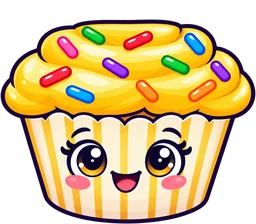
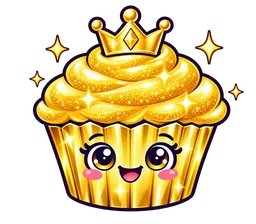
Revise Molly cupcake thumbnail, golden reward and Unicorn lane backdrop

diff --git a/party/image-requests.md b/party/image-requests.md
@@ -1107,9 +1107,6 @@ make it read better. Newest first; fixed items move to
 | `prop/dp-mushroom` (Molly duckling-parade, NEW key, 2026-10-13) | Missing: the mushroom hiding spots are still drawn by code (big, flat, off-style next to the delivered art) | ~260×280 transparent, bottom-centre anchor, drawn ~140 px wide; a friendly red-and-white toadstool a duckling can peek out from beside |
 | `prop/duckling-golden` (Molly duckling-parade, NEW key, optional) | The golden duckling is the plain duckling art with a glow, so it isn't golden | Same framing/anchor as `prop/duckling`: a shiny gold duckling with sparkles |
 | `prop/mp-ledge` (Molly mermaid-pearls, NEW key, optional) | The rock ledges under the clams are flat code-drawn bowls, off-style next to the art | ~300×110 transparent, bottom-centre anchor (drawn 270×99): a rounded coral/rock shelf whose flat top sits ~25 px below the image's top edge, for a clam to sit on |
-| `thumb/cupcake-stack` (Molly, 2026-10-13) | Plain white background with no scene; the only blank-white tile on the Molly shelf and how-to screen | Same subject, opaque 800×500 with a garden-party background (lawn, bunting, sky) like the other Molly thumbnails |
-| `prop/cupcake-gold` (Molly, 2026-10-13) | Looks almost the same as `prop/cupcake-lemon`, so the golden super-cupcake doesn't stand out (the code only adds a glow) | 256×224, same anchor: shiny gold-foil wrapper, glittery gold frosting, sparkles, a little star or crown on top |
-| `bg/unicorn-jump` (Molly, 2026-10-13) | Too busy behind the lanes: big gumdrops, lollipops and flowers fill the middle and bottom, so riders are hard to read (the code adds a milky wash for now) | Same seamless 1920×1080 tile; candy detail mostly in the top ~250 px, the lane area (y 260–1000) a soft, low-contrast meadow |
 
 Engine-side notes from the same review: several keys are aliases of one
 file (`prop/sky-cake` = `prop/giant-cake`, `prop/pump` = `prop/balloon-pump`,

diff --git a/party/image-requests-history.md b/party/image-requests-history.md
@@ -1,3 +1,11 @@
+## Resolved Molly cupcake and unicorn review — 2026-10-13
+
+Garden-party thumbnail, gold-foil crown cupcake and quiet mint meadow regenerated; checked in how-to and live gameplay. Provenance: `reference/pending/MOLLY-review-corrections.json`.
+
+| `thumb/cupcake-stack` (Molly, 2026-10-13) | Plain white background with no scene; the only blank-white tile on the Molly shelf and how-to screen | Same subject, opaque 800×500 with a garden-party background (lawn, bunting, sky) like the other Molly thumbnails |
+| `prop/cupcake-gold` (Molly, 2026-10-13) | Looks almost the same as `prop/cupcake-lemon`, so the golden super-cupcake doesn't stand out (the code only adds a glow) | 256×224, same anchor: shiny gold-foil wrapper, glittery gold frosting, sparkles, a little star or crown on top |
+| `bg/unicorn-jump` (Molly, 2026-10-13) | Too busy behind the lanes: big gumdrops, lollipops and flowers fill the middle and bottom, so riders are hard to read (the code adds a milky wash for now) | Same seamless 1920×1080 tile; candy detail mostly in the top ~250 px, the lane area (y 260–1000) a soft, low-contrast meadow |
+
 ## Delivered prank-troll — 2026-10-13
 
 Published `33bed58e /904cafd0`:15 keys; ptroll namespace preserves Puppet Theatre; generated face/hair/toe attachments checked after merge with Molly IDs; geometry regression passes.
